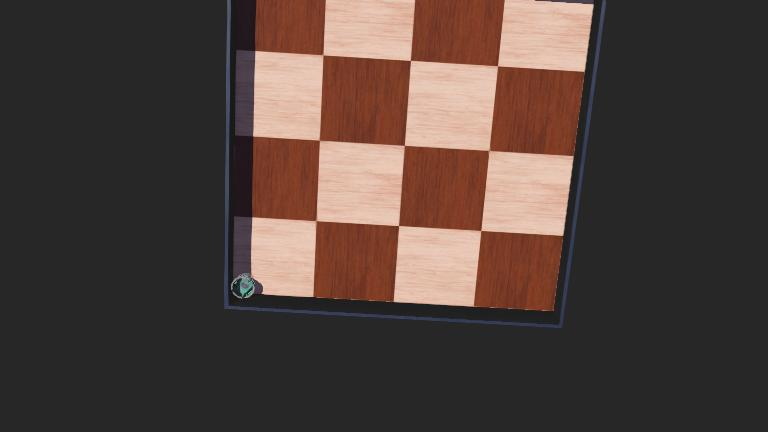
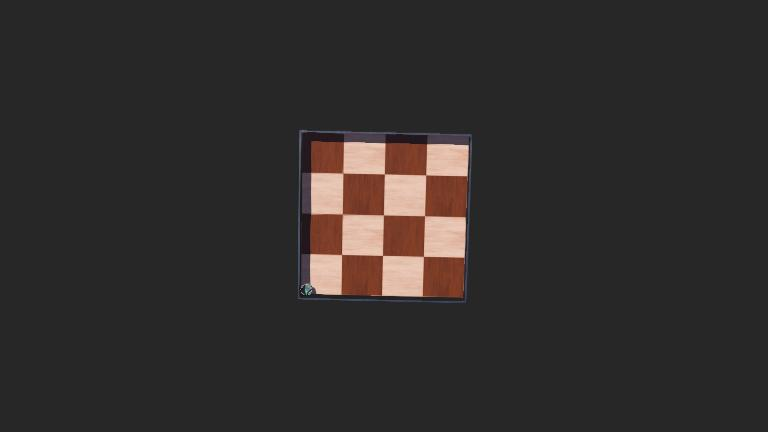
Carried out distance sensor obstacle detection

Changed region(s): [[0.2812, 0.0, 0.8125, 0.7523], [0.6875, 0.7523, 0.7188, 0.7824]]

diff --git a/webots_project/controllers/move_forward/move_forward.py b/webots_project/controllers/move_forward/move_forward.py
@@ -12,5 +12,31 @@ right_motor.setPosition(float('inf'))
 left_motor.setVelocity(3.0)
 right_motor.setVelocity(3.0)
 
+sensor_names = [ #The robot's "eyes".
+    'ps0', 'ps1', 'ps2', 'ps3', 'ps4', 'ps5', 'ps6', 'ps7'
+]
+sensors = []
+
+for name in sensor_names:
+    sensor = robot.getDevice(name)
+    sensor.enable(TIME_STEP)
+    sensors.append(sensor)
+
 while robot.step(TIME_STEP) != -1:
-    pass
+    values = [sensor.getValue() for sensor in sensors]
+
+    obstacle_detected = (
+        values[0] > 500 or
+        values[1] > 500 or
+        values[6] > 500 or
+        values[7] > 500
+    )
+
+    if obstacle_detected:
+        print("WALL DETECTED")
+        left_motor.setVelocity(0)
+        right_motor.setVelocity(0)
+    else:
+        print("MOVING FORWARD")
+        left_motor.setVelocity(3.0)
+        right_motor.setVelocity(3.0)
